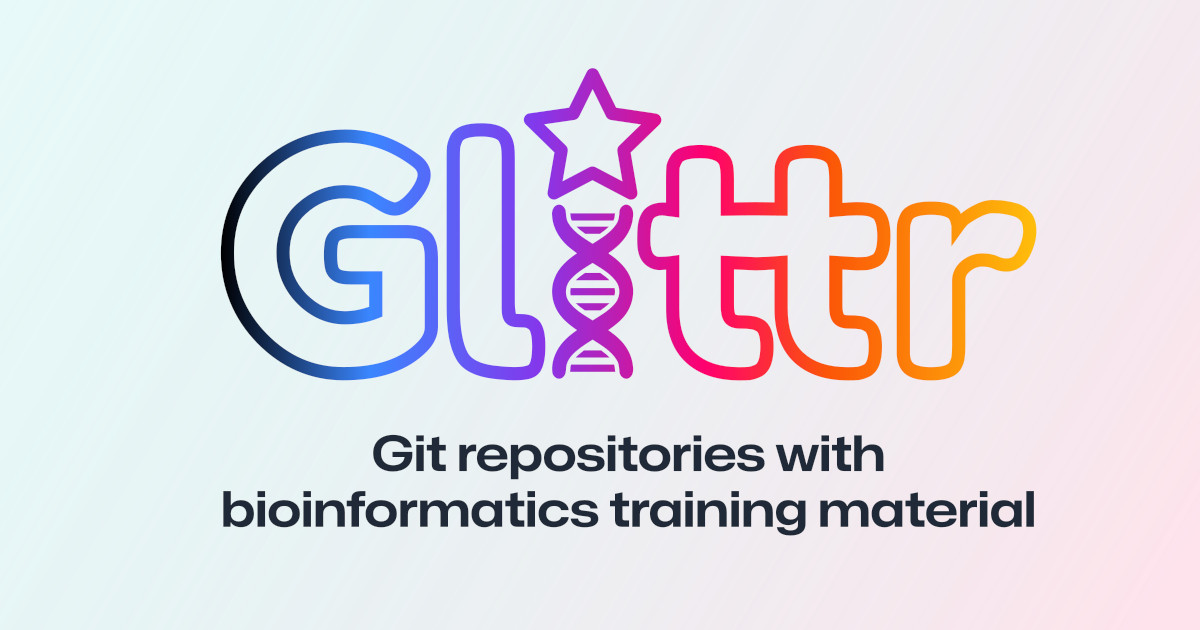
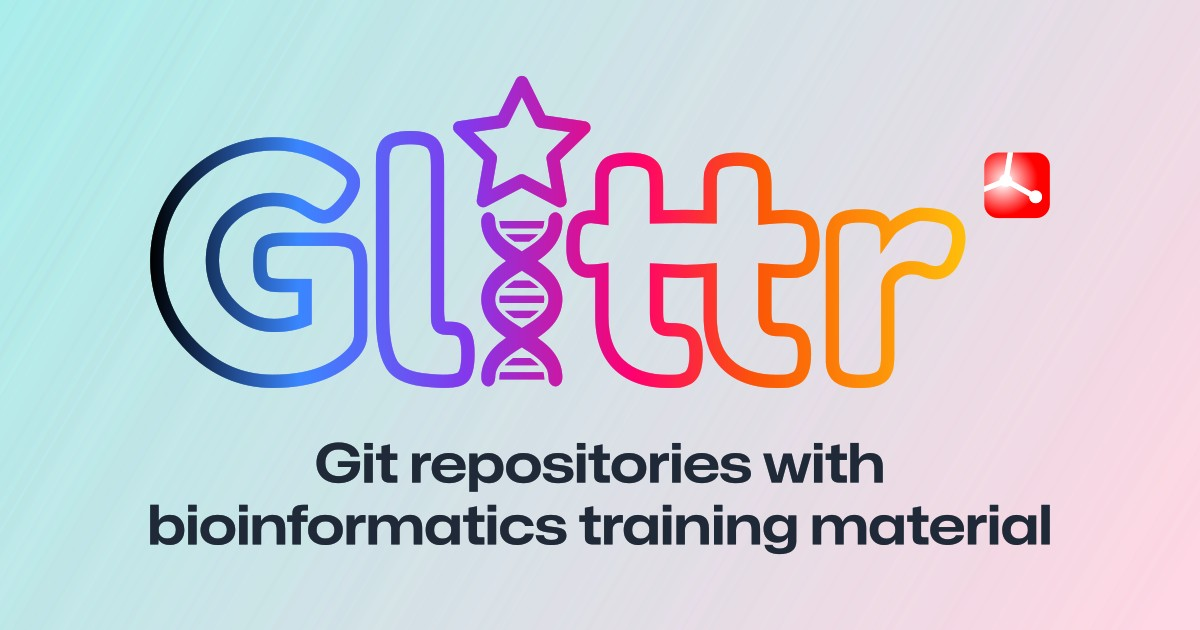
typo fix + new og image

diff --git a/README.md b/README.md
@@ -55,15 +55,15 @@ GET /api/repositories?filter[author.name]=sib&filter[license]=cc
 GET /api/repositories?filter[tags.name]=r,machine%20learning
 ```
 
-| Fiter               | Exact match | Description                                   |
-| ------------------- | ----------- | --------------------------------------------- |
-| name                | No          | Repository name                               |
-| licence             | No          | Repository license                            |
-| description         | No          | Repository description                        |
-| author.name         | Yes         | Author Github/Gitlab username                 |
-| author.display_name | No          | Author Github/Gitlab display name             |
-| tags.name           | Yes         | Repository tags                               |
-| tags.category.name  | No          | Repository with a tag from from this category |
+| Fiter               | Exact match | Description                              |
+| ------------------- | ----------- | ---------------------------------------- |
+| name                | No          | Repository name                          |
+| licence             | No          | Repository license                       |
+| description         | No          | Repository description                   |
+| author.name         | Yes         | Author Github/Gitlab username            |
+| author.display_name | No          | Author Github/Gitlab display name        |
+| tags.name           | Yes         | Repository tags                          |
+| tags.category.name  | No          | Repository with a tag from this category |
 
 To retrieve the list of tags and categories you can use the `/api/tags` endpoint which retunr the list of tags grouped by category with repositories count.
 
